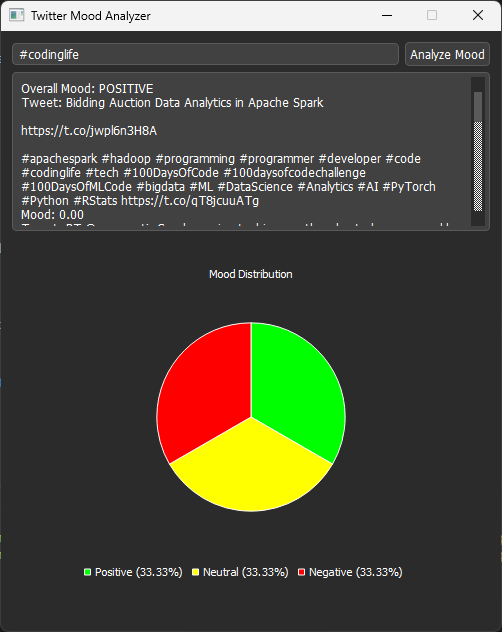
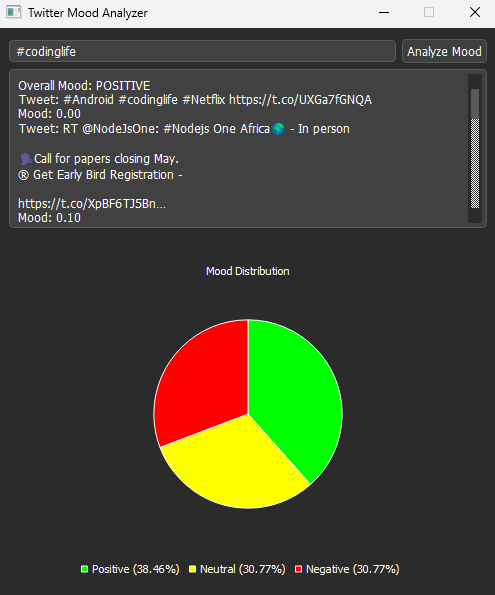
Fixed pie chart legend text color.

Changed region(s): [[0.0, 0.0, 1.0, 0.3933], [0.1515, 0.4235, 0.8182, 0.9681], [0.9394, 0.1513, 0.9697, 0.363]]

diff --git a/twitter-mood-tracker-pyqt.py b/twitter-mood-tracker-pyqt.py
@@ -66,14 +66,13 @@ def draw_pie_chart(positive_count, neutral_count, negative_count):
     colors = [QColor(0, 255, 0), QColor(255, 255, 0), QColor(255, 0, 0)]
     for i, slice in enumerate(series.slices()):
         slice.setColor(colors[i])
-        slice.setLabel(f"{slice.label()} ({slice.percentage()*100:.2f}%)")
+        slice.setLabel(
+            f"<font color='white'>{slice.label()} ({slice.percentage()*100:.2f}%)</font>")
 
     chart = QChart()
     chart.addSeries(series)
     chart.setTitle("<font color='white'>Mood Distribution</font>")
 
-    pen = QPen(QColor(255, 255, 255))
-    chart.legend().setPen(pen)
     chart.legend().setAlignment(Qt.AlignBottom)
     chart.setBackgroundBrush(QBrush(QColor(43, 43, 43)))
 
